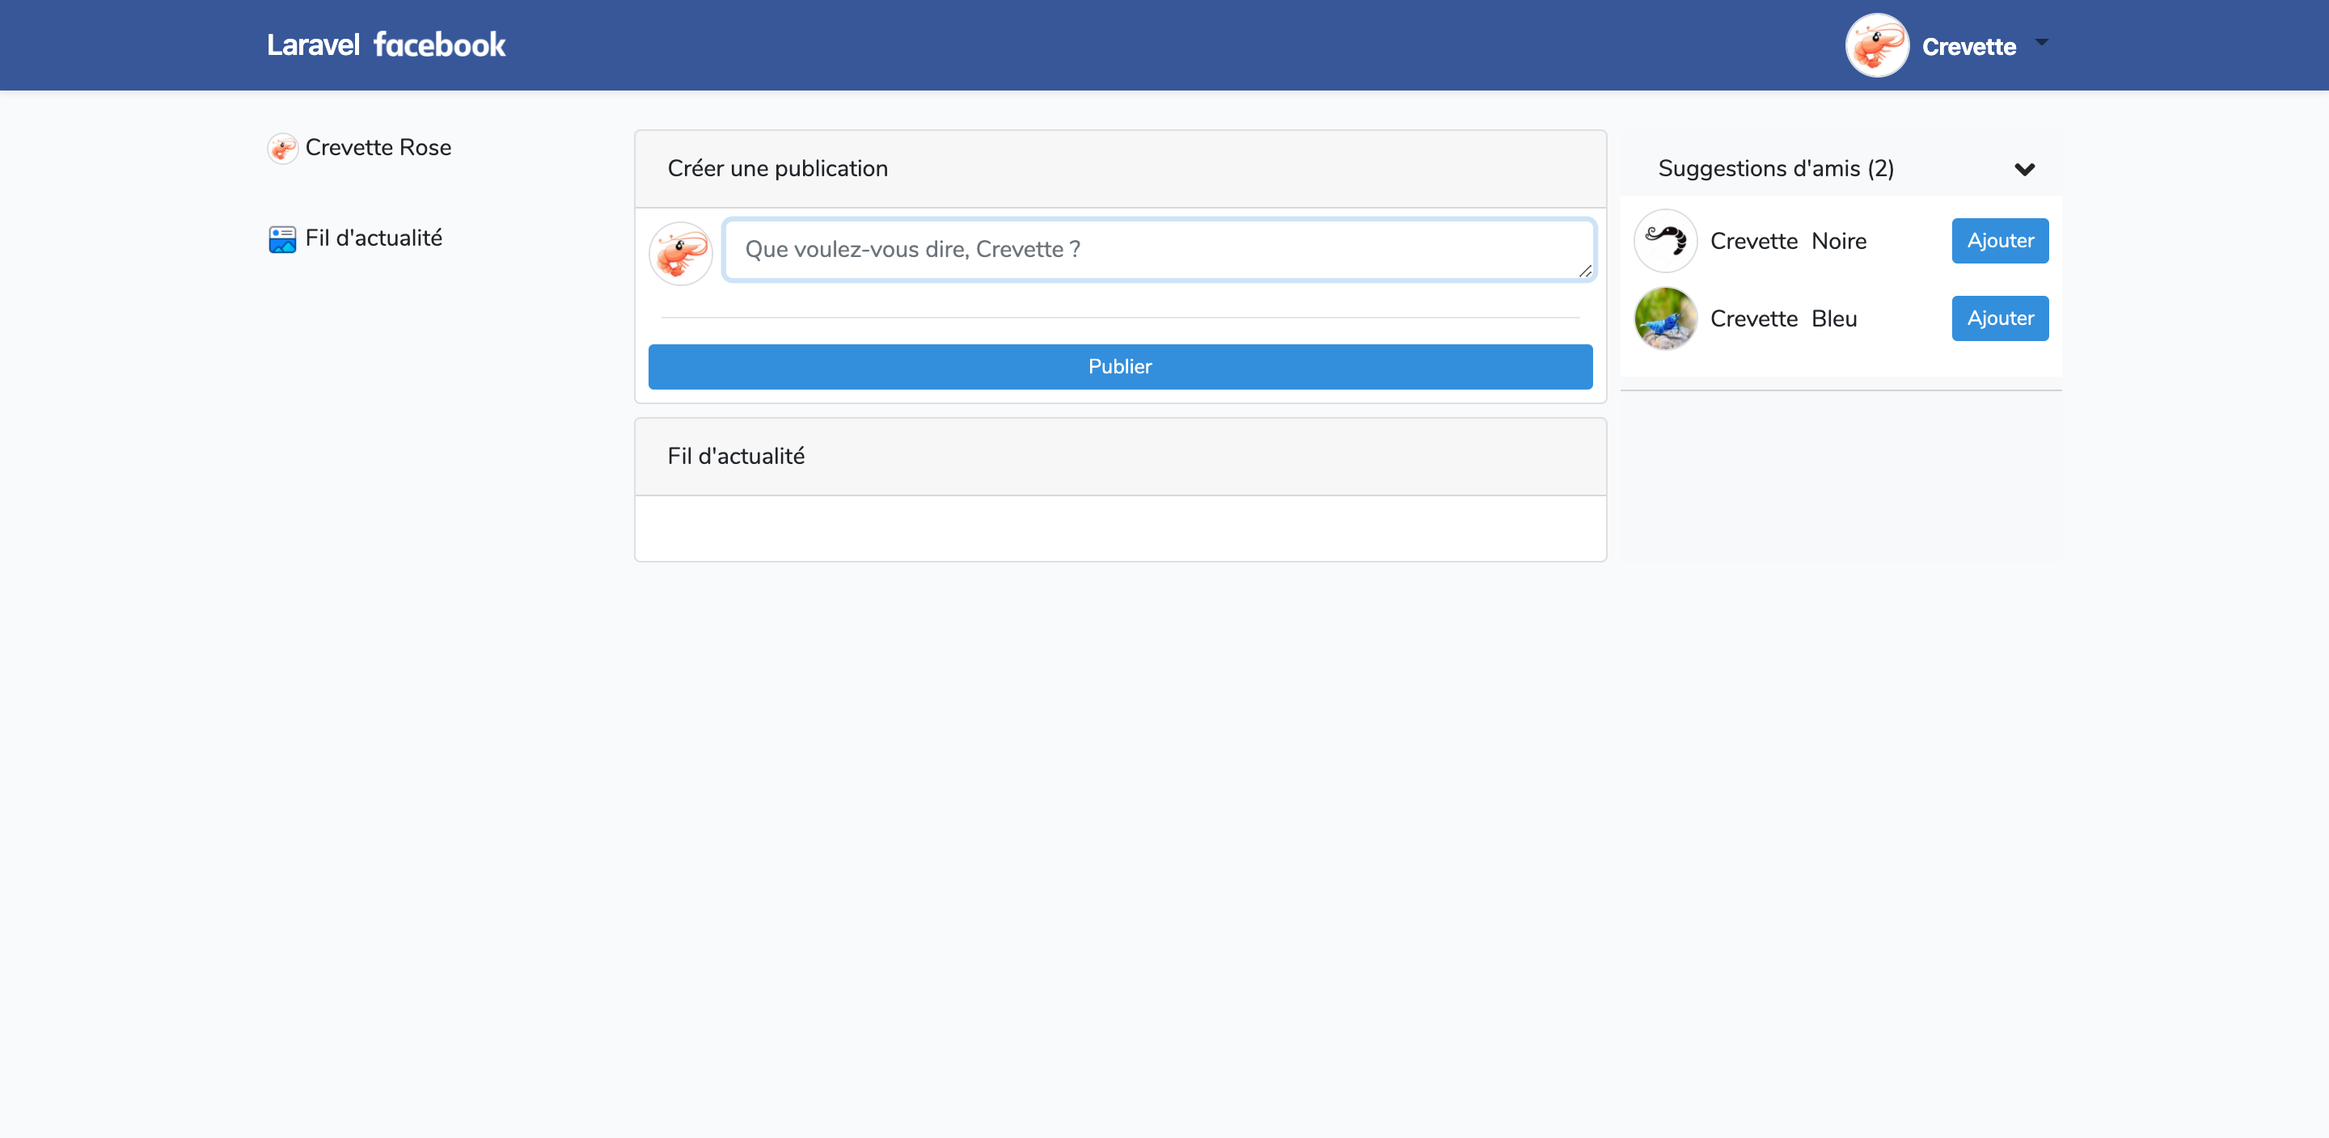
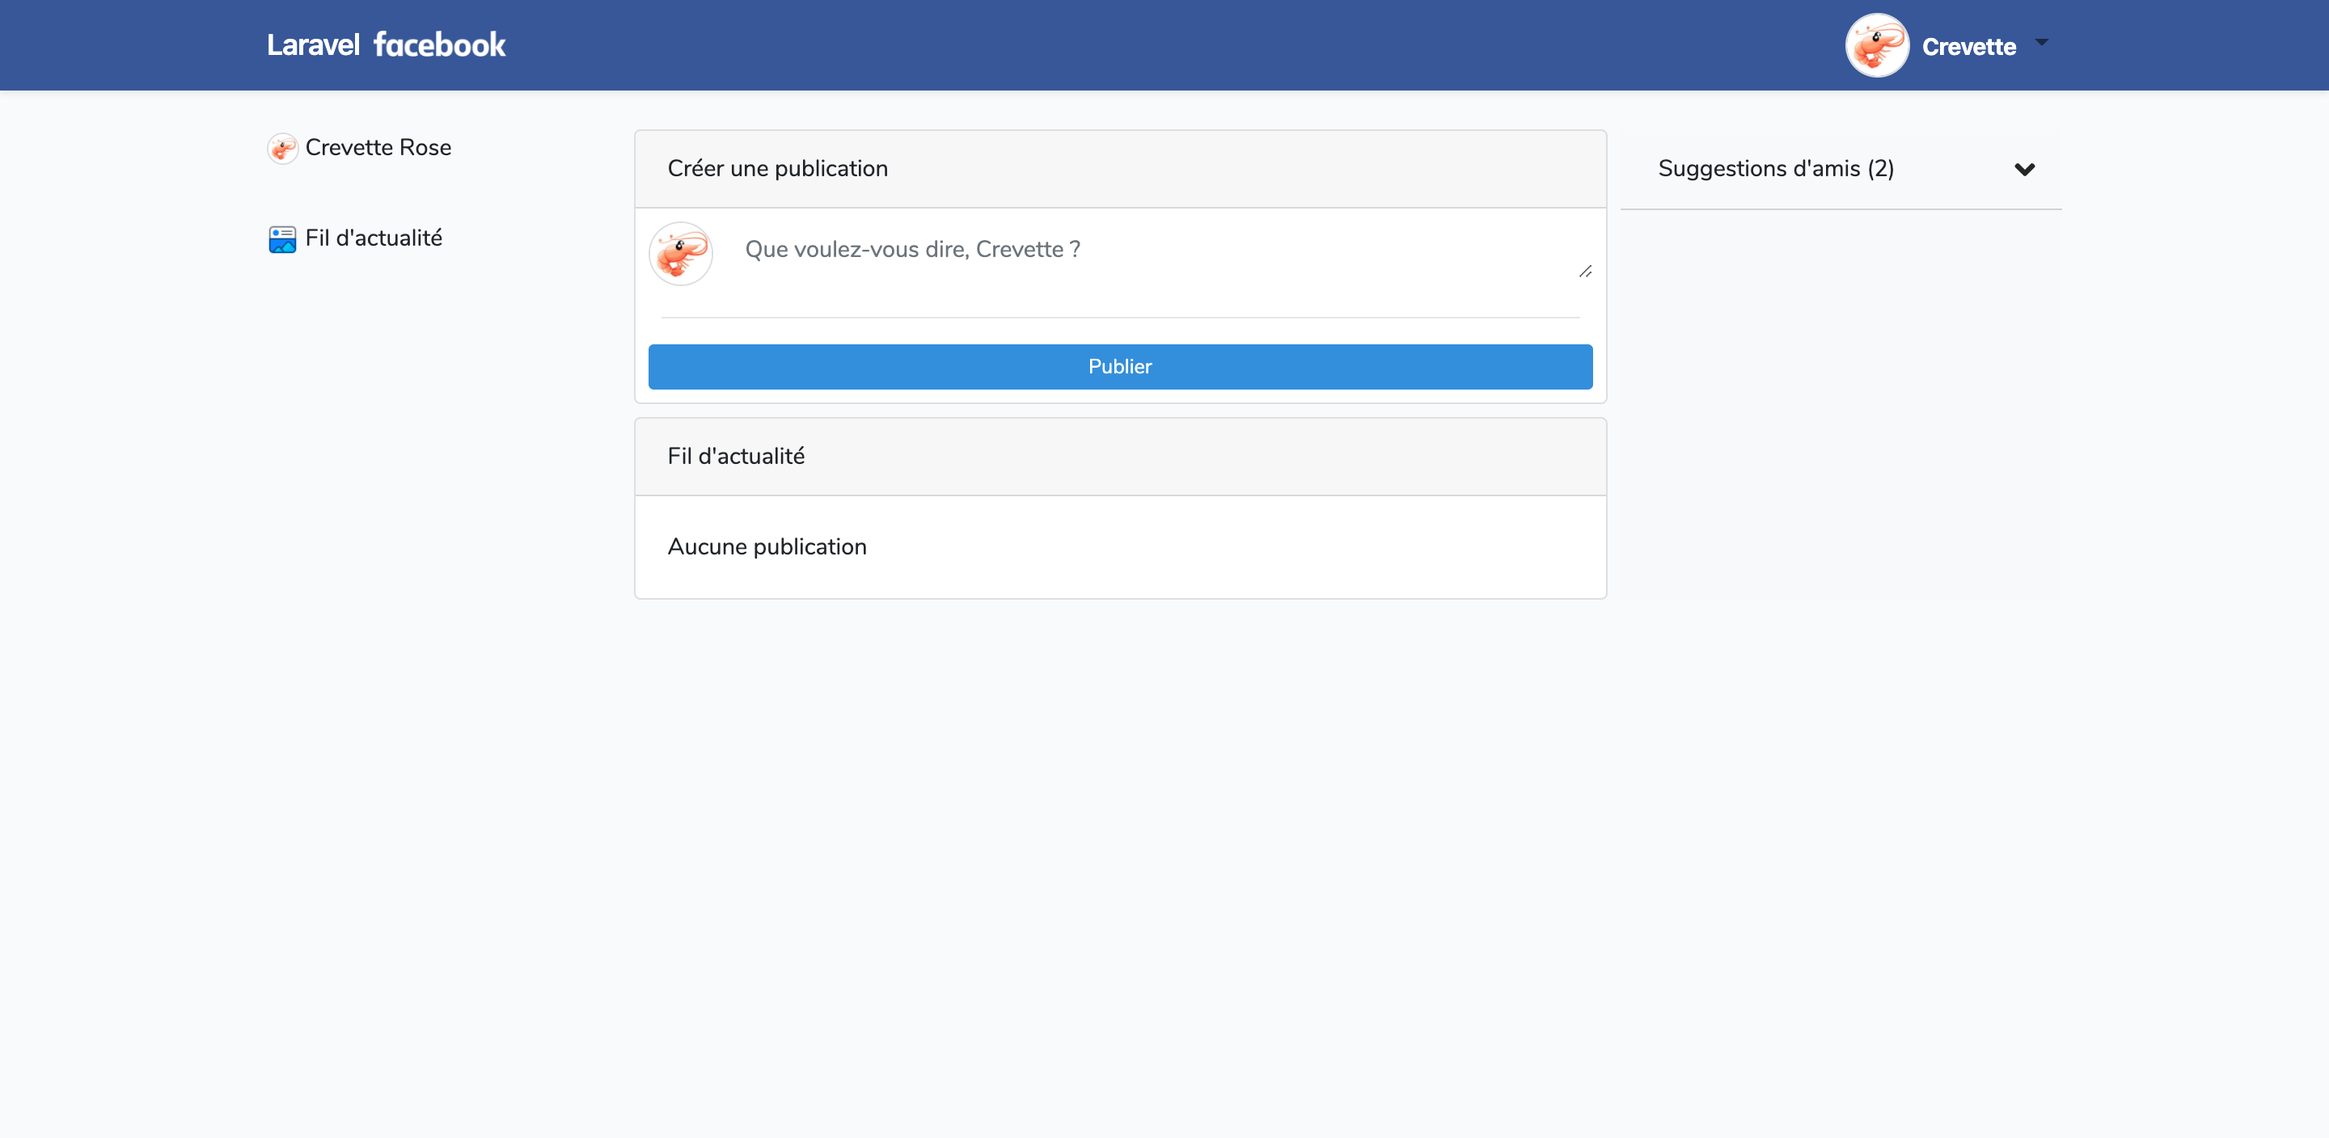
fonction crée une publication

Changed region(s): [[0.3125, 0.1875, 0.9062, 0.3125], [0.6875, 0.25, 0.75, 0.3125], [0.2812, 0.4688, 0.375, 0.5]]

diff --git a/resources/views/home.blade.php b/resources/views/home.blade.php
@@ -57,48 +57,46 @@ Laravel Facebook - Home
                             </div>
                         </div>
                     </div>
-                    <div class="card mt-2">
+
+                    <!-- Fil d'actualité -->
+                    @if(!$posts)
+                    <div class="card my-2">
                         <div class="card-header">Fil d'actualité</div>
-                        <div class="card-body outer">
-                            @if($posts)
-                            @foreach ($posts as $post)
-                            @csrf
-                            <div class="child border-bottom mb-2 pb-2">
-                                <div class="mb-2 mr-2 float-left" style="width:80px;"><a
-                                        href="{{ route('profil', $post->user->id) }}">
-                                        <img class="m-auto rounded img-thumbnail" src="{{$post->user->getAvatar()}}"
-                                            width="100%" height="100%">
-                                    </a>
-                                </div>
-                                <div class="d-flex">
-                                    <a href="{{ route('profil', $post->user->id) }}" class="mr-auto"
-                                        style="text-decoration: none; color: inherit;">
-                                        <div class="d-flex">
-                                            <H5 class="font-weight-bold pr-2">{{$post->user->name}}</H5>
-                                            <p>{{$post->user->pseudo}}</p>
-                                        </div>
-                                    </a>
-                                    <form action="{{route('destroy.post', $post->id)}}" method="DELETE" id="myform">
-                                        @if ($post->user->id === Auth::user()->id)
-                                        <button type="submit" class="btn btn-outline-danger p-2" onclick="if(confirm('Voulez-vous vraiment supprimer ce post ?')){
-                                                return true;}else{ return false;}">Supprimer</button>
-                                        @endif
-                                    </form>
-                                </div>
-                                <div class="d-flex">
-                                    <p class="mr-auto w-70 text-info">
-                                        {{$post->text }}
-                                    </p>
-                                    <p class="p-2 text-secondary font-italic">
-                                        {{$post->created_at->locale('fr_FR')->diffForHumans()}}</p>
-                                </div>
-                            </div>
-                            @endforeach
-                            @endif
-                            {{$posts->links()}}
-                        </div>
+                        <div class="card-body">Aucune publication</div>
                     </div>
+                    @else
+                    @foreach ($posts as $post)
+                    @csrf
+                    <div class="card my-2">
+                        <div class="card-header d-flex my-auto p-2">
+                            <div class="mr-2"><img style="border-radius:50%; border:1px solid #DADDE1;"
+                                    src="{{$post->user->getAvatar()}}" alt="" width="40"></div>
+                            <div class="mr-auto">
+                                <p class="my-auto">{{$post->user->firstname}} {{$post->user->name}}</p>
+                                <p class="text-muted mr-2 my-auto text-secondary font-italic">
+                                    {{$post->created_at->locale('fr_FR')->diffForHumans()}}</p>
+                            </div>
+                            <form action="{{route('destroy.post', $post->id)}}" method="DELETE" id="myform" class="p-2">
+                                @if ($post->user->id === Auth::user()->id)
+                                <button type="submit" class="btn btn-outline-danger p-2" onclick="if(confirm('Voulez-vous vraiment supprimer ce post ?')){
+                                                return true;}else{ return false;}">Supprimer</button>
+                                @endif
+                            </form>
+                        </div>
+                        <div class="card-body outer p-2">
+                            <p class="m-0 text-info">
+                                {{$post->text }}
+                            </p>
+
+                        </div>
+
+                    </div>
+                    @endforeach
+                    @endif
+                    {{$posts->links()}}
                 </div>
+
+                <!-- Suggestions d'amis -->
                 <div class="card border-0 bg-light" style="width:25%;">
                     <div class="navbar px-0 bg-light" style="
     border-bottom: 1px solid lightgrey;">

diff --git a/app/Http/Controllers/PostController.php b/app/Http/Controllers/PostController.php
@@ -21,6 +21,7 @@ class PostController extends Controller
 
         //Post de la personne connecter
         $posts = $post
+        //->whereIn('user_id', Auth::user()->following()->pluck('follower_id'))
         ->orWhere('user_id', Auth::user()->id)
         ->with('user')
         ->orderBy('id', 'DESC')
@@ -40,9 +41,22 @@ class PostController extends Controller
      *
      * @return \Illuminate\Http\Response
      */
-    public function create()
+    public function create(Post $post, Request $request)
     {
-        //
+        //Validation
+        $validate = $request->validate([
+            'text' => 'required',
+        ]);
+        //Création
+        $post = new Post;
+        $post->text = $request->text;
+        $post->user_id = $request->user_id;
+
+        //Sauvegarde du post tweet
+        $post->save();
+
+        //Redirection
+        return redirect('/home');
     }
 
     /**

diff --git a/docs/posts.md b/docs/posts.md
@@ -298,48 +298,46 @@ Laravel Facebook - Home
                             </div>
                         </div>
                     </div>
+
+                    <!-- Fil d'actualité -->
+                    @if(!$posts)
                     <div class="card mt-2">
                         <div class="card-header">Fil d'actualité</div>
-                        <div class="card-body outer">
-                            @if($posts)
-                            @foreach ($posts as $post)
-                            @csrf
-                            <div class="child border-bottom mb-2 pb-2">
-                                <div class="mb-2 mr-2 float-left" style="width:80px;"><a
-                                        href="{{ route('profil', $post->user->id) }}">
-                                        <img class="m-auto rounded img-thumbnail" src="{{$post->user->getAvatar()}}"
-                                            width="100%" height="100%">
-                                    </a>
-                                </div>
-                                <div class="d-flex">
-                                    <a href="{{ route('profil', $post->user->id) }}" class="mr-auto"
-                                        style="text-decoration: none; color: inherit;">
-                                        <div class="d-flex">
-                                            <H5 class="font-weight-bold pr-2">{{$post->user->name}}</H5>
-                                            <p>{{$post->user->pseudo}}</p>
-                                        </div>
-                                    </a>
-                                    <form action="{{route('destroy.post', $post->id)}}" method="DELETE" id="myform">
-                                        @if ($post->user->id === Auth::user()->id)
-                                        <button type="submit" class="btn btn-outline-danger p-2" onclick="if(confirm('Voulez-vous vraiment supprimer ce post ?')){
-                                                return true;}else{ return false;}">Supprimer</button>
-                                        @endif
-                                    </form>
-                                </div>
-                                <div class="d-flex">
-                                    <p class="mr-auto w-70 text-info">
-                                        {{$post->text }}
-                                    </p>
-                                    <p class="p-2 text-secondary font-italic">
-                                        {{$post->created_at->locale('fr_FR')->diffForHumans()}}</p>
-                                </div>
-                            </div>
-                            @endforeach
-                            @endif
-                            {{$posts->links()}}
-                        </div>
+                        <div class="card-body">Aucune publication</div>
                     </div>
+                    @else
+                    @foreach ($posts as $post)
+                    @csrf
+                    <div class="card mt-2">
+                        <div class="card-header d-flex my-auto p-2">
+                            <div class="mr-2"><img style="border-radius:50%; border:1px solid #DADDE1;"
+                                    src="{{$post->user->getAvatar()}}" alt="" width="40"></div>
+                            <div class="mr-auto">
+                                <p class="my-auto">{{$post->user->firstname}} {{$post->user->name}}</p>
+                                <p class="text-muted mr-2 my-auto text-secondary font-italic">
+                                    {{$post->created_at->locale('fr_FR')->diffForHumans()}}</p>
+                            </div>
+                            <form action="{{route('destroy.post', $post->id)}}" method="DELETE" id="myform" class="p-2">
+                                @if ($post->user->id === Auth::user()->id)
+                                <button type="submit" class="btn btn-outline-danger p-2" onclick="if(confirm('Voulez-vous vraiment supprimer ce post ?')){
+                                                return true;}else{ return false;}">Supprimer</button>
+                                @endif
+                            </form>
+                        </div>
+                        <div class="card-body outer p-2">
+                            <p class="m-0 text-info">
+                                {{$post->text }}
+                            </p>
+
+                        </div>
+
+                    </div>
+                    @endforeach
+                    @endif
+                    {{$posts->links()}}
                 </div>
+
+                <!-- Suggestions d'amis -->
                 <div class="card border-0 bg-light" style="width:25%;">
                     <div class="navbar px-0 bg-light" style="
     border-bottom: 1px solid lightgrey;">
@@ -393,7 +391,6 @@ Laravel Facebook - Home
 </div>
 @endsection
 
-
 ```
 
 </details>
@@ -442,9 +439,89 @@ Route::get('/home', 'HomeController@index')->name('home');
 
 Car nous avons modifié la vue pour qu'elle coresponde à nos attentes et pour cela, nous lui avons crée un nouveau controller qui nous est propre appelé "PostController".
 
-#### Étape 1 - &#128065; - Rendu visuel
+#### Étape 1 - &#128065; - Rendu visuel initial
 
 ![FBL-page-home.png](FBL-page-home.png)
+
+#### Étape 2 - &#8853; - Vue, partie création d'un post
+
+-   Ajout de la partie non visible qui accueillera les posts :
+
+```php
+   <!-- Fil d'actualité -->
+                    @if(!$posts)
+                    <div class="card mt-2">
+                        <div class="card-header">Fil d'actualité</div>
+                        <div class="card-body">Aucune publication</div>
+                    </div>
+                    @else
+                    @foreach ($posts as $post)
+                    @csrf
+                    <div class="card mt-2">
+                        <div class="card-header d-flex my-auto p-2">
+                            <div class="mr-2"><img style="border-radius:50%; border:1px solid #DADDE1;"
+                                    src="{{$post->user->getAvatar()}}" alt="" width="40"></div>
+                            <div class="mr-auto">
+                                <p class="my-auto">{{$post->user->firstname}} {{$post->user->name}}</p>
+                                <p class="text-muted mr-2 my-auto text-secondary font-italic">
+                                    {{$post->created_at->locale('fr_FR')->diffForHumans()}}</p>
+                            </div>
+                            <form action="{{route('destroy.post', $post->id)}}" method="DELETE" id="myform" class="p-2">
+                                @if ($post->user->id === Auth::user()->id)
+                                <button type="submit" class="btn btn-outline-danger p-2" onclick="if(confirm('Voulez-vous vraiment supprimer ce post ?')){
+                                                return true;}else{ return false;}">Supprimer</button>
+                                @endif
+                            </form>
+                        </div>
+                        <div class="card-body outer p-2">
+                            <p class="m-0 text-info">
+                                {{$post->text }}
+                            </p>
+
+                        </div>
+
+                    </div>
+                    @endforeach
+                    @endif
+                    {{$posts->links()}}
+```
+
+#### Étape 2 - &#8853; - Controller gérant la création
+
+-   Création de la fonction create :
+
+```php
+ public function create(Post $post, Request $request)
+    {
+        //Validation
+        $validate = $request->validate([
+            'text' => 'required',
+        ]);
+        //Création
+        $post = new Post;
+        $post->text = $request->text;
+        $post->user_id = $request->user_id;
+
+        //Sauvegarde du post tweet
+        $post->save();
+
+        //Redirection
+        return redirect('/home');
+    }
+```
+
+#### Étape 2 - &#8853; - Route de liaison
+
+-   Ajouter la ligne suivante pour que la liaison entre votre fonction de creation (controller) et votre vue se fassent :
+
+```php
+//Route de la méthode post un commentaire (création)
+Route::post('/home', 'PostController@create')->middleware('auth')->name('create.post');
+```
+
+#### Étape 2 - &#8853; - Rendu visuel avec publication
+
+![FBL-page-home-publication.png](FBL-page-home-publication.png)
 
 ### Routes
 

diff --git a/README.md b/README.md
@@ -24,9 +24,10 @@ Créer un réseau social clone de Facebook en utilisant le framework PHP Laravel
 
 ## Grilles des Vues
 
-|                                                                                             |                                                                                           |                                                                                |
-| :-----------------------------------------------------------------------------------------: | :---------------------------------------------------------------------------------------: | :----------------------------------------------------------------------------: |
-|              ![docs/localhost.png](docs/localhost.png) Page de base de LARAVEL              |      ![docs/PHPMyAdmin-CreateBDD.png](docs/PHPMyAdmin-CreateBDD.png) Création de BDD      |  ![docs/Base-register.png](docs/Base-register.png) Page d'inscription LARAVEL  |
-|            ![docs/Base-login.png](docs/Base-login.png) Page de connexion LARAVEL            |        ![docs/Base-logged_in.png](docs/Base-logged_in.png) Page d'accueil LARAVEL         | ![Logo Laravel Facebook](docs/logo-laravel-facebook.png) Logo Laravel Facebook |
-|        ![docs/FB-welcome.png](docs/FB-welcome.png) Page de connexion/inscription FBL        |    ![FBL-barre-navigation.png](docs/FBL-barre-navigation.png) Barre de navigation FBL     |     ![docs/FBL-page-compte.png](docs/FBL-page-compte.png) Page Compte FBL      |
-| ![docs/profil-edit-avatar-cover.png](docs/profil-edit-avatar-cover.png) Page profil initial | ![docs/FBL-page-home.png](docs/FBL-page-home.png) Page d'accueil initial (home) - Étape 1 |                                       ?                                        |
+|                                                                                                                |                                                                                           |                                                                                |
+| :------------------------------------------------------------------------------------------------------------: | :---------------------------------------------------------------------------------------: | :----------------------------------------------------------------------------: |
+|                       ![docs/localhost.png](docs/localhost.png) Page de base de LARAVEL                        |      ![docs/PHPMyAdmin-CreateBDD.png](docs/PHPMyAdmin-CreateBDD.png) Création de BDD      |  ![docs/Base-register.png](docs/Base-register.png) Page d'inscription LARAVEL  |
+|                     ![docs/Base-login.png](docs/Base-login.png) Page de connexion LARAVEL                      |        ![docs/Base-logged_in.png](docs/Base-logged_in.png) Page d'accueil LARAVEL         | ![Logo Laravel Facebook](docs/logo-laravel-facebook.png) Logo Laravel Facebook |
+|                 ![docs/FB-welcome.png](docs/FB-welcome.png) Page de connexion/inscription FBL                  |    ![FBL-barre-navigation.png](docs/FBL-barre-navigation.png) Barre de navigation FBL     |     ![docs/FBL-page-compte.png](docs/FBL-page-compte.png) Page Compte FBL      |
+|          ![docs/profil-edit-avatar-cover.png](docs/profil-edit-avatar-cover.png) Page profil initial           | ![docs/FBL-page-home.png](docs/FBL-page-home.png) Page d'accueil initial (home) - Étape 1 |
+| ![docs/FBL-page-home-publication.png](docs/FBL-page-home-publication.png) Page Home - Étape 2 avec publication |
